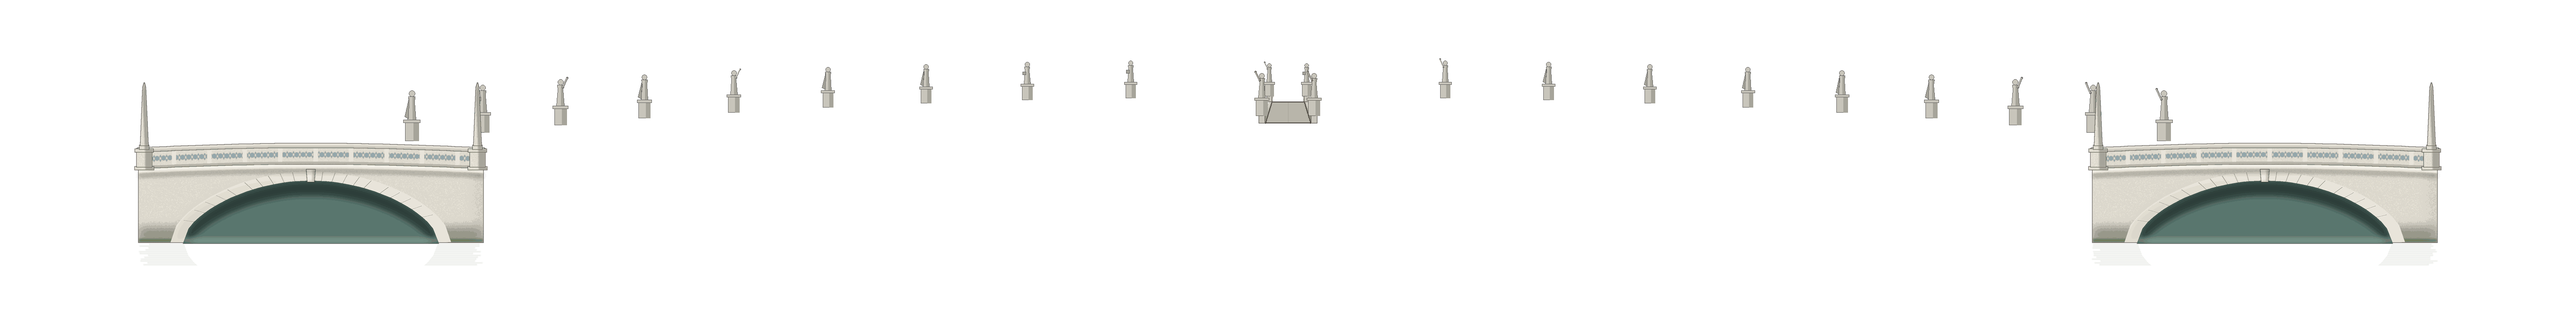
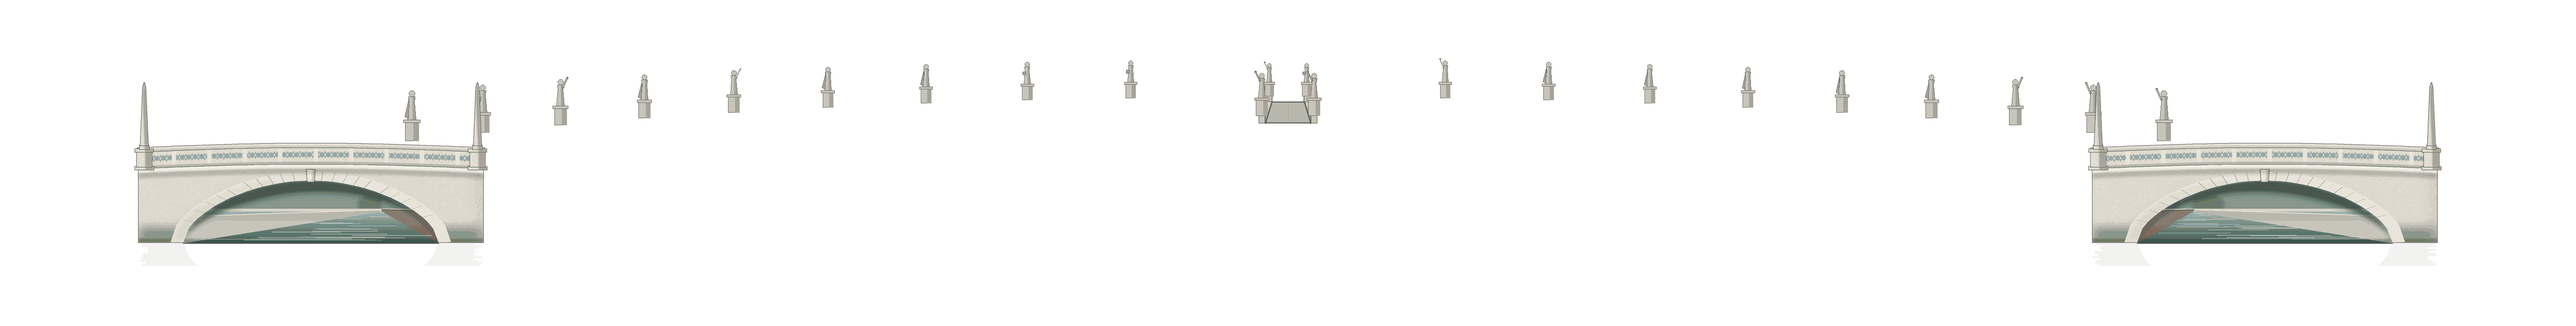
Padova: sotto i ponti si vede il canale che continua e piega dietro l'isola, in prospettiva (#378)
Claude-Session: https://claude.ai/code/session_01Bf1d2rFJnp9n4pFf7DSqn4

Changed region(s): [[0.8101, 0.54, 0.9348, 0.75], [0.0623, 0.57, 0.187, 0.75]]

diff --git a/tools/arene/padova.py b/tools/arene/padova.py
@@ -2643,10 +2643,60 @@ def _profile_bridge(t, x_in, x_out, rng):
     span, mid = (b - a) * 0.74, (a + b) / 2
     arch = [(mid - span / 2 + span * i / n, water - (water - deck - 18 + hump) * math.sin(math.pi * i / n) ** 0.55) for i in range(n + 1)]
     opening = q.poly(q.mask(), [(mid - span / 2, water + 1)] + arch + [(mid + span / 2, water + 1)])
-    # sotto l'arco: l'acqua del canale che continua dietro, la volta in ombra
-    q.fill(opening, (88, 118, 110))
-    q.fill(q.intersect(q.soften(q.poly(q.mask(), arch + [(x, y + 16) for x, y in reversed(arch)]), 3), opening), (40, 56, 52), 0.9)
-    q.fill(q.intersect(q.soften(q.poly(q.mask(), [(mid - span / 2, water - 5), (mid + span / 2, water - 5), (mid + span / 2, water + 1), (mid - span / 2, water + 1)]), 2), opening), (140, 168, 156), 0.6)
+    # sotto l'arco si vede il canale che continua (#378, chiesto da Riccardo): l'acqua va via da noi e, siccome il canale
+    # è un anello ovale, piega verso il centro dietro l'isola. Le due sponde convergono verso un punto di fuga spostato
+    # dalla parte dell'isola; lontano l'acqua è più chiara e riflette il cielo, in fondo si vedono il prato e gli alberi
+    # della sponda che gira. In alto la volta del ponte in ombra.
+    sg = 1 if mid < 960 else -1  # da che parte sta l'isola (il centro dell'ovale)
+    H = water - arch[n // 2][1]
+    hz = water - H * 0.5  # l'orizzonte del canale dentro l'arco
+    vx = mid + sg * span * 0.28  # il punto di fuga: il canale piega verso l'isola
+    left_x, right_x = mid - span / 2, mid + span / 2
+    inner_x, outer_x = (right_x, left_x) if sg > 0 else (left_x, right_x)
+
+    def vgrad(y_top, y_bot):  # una maschera che va da pieno in alto (y_top) a vuoto in basso (y_bot)
+        g = Image.new("L", q.size, 0)
+        dg = ImageDraw.Draw(g)
+        ya, yb = q._p(0, y_top)[1], q._p(0, y_bot)[1]
+        for py in range(int(ya), int(yb) + 1):
+            u = (py - ya) / max(1, yb - ya)
+            dg.line([(0, py), (q.size[0], py)], fill=int(255 * (1 - u) ** 1.3))
+        return g
+
+    q.fill(opening, (128, 150, 136))  # lontano, sopra l'orizzonte: la sponda che gira, verde di prato e alberi
+    trees = q.mask()
+    for k in range(7):
+        tx = vx + sg * rng.uniform(-span * 0.1, span * 0.3)
+        q.ellipse(trees, tx - 9, hz - 15 - rng.uniform(0, 6), tx + 9, hz + 2)
+    q.fill(q.intersect(q.soften(trees, 1.5), opening), (96, 120, 92), 0.9)
+    farbank = q.poly(q.mask(), [(left_x, hz), (right_x, hz), (right_x, hz - 3), (left_x, hz - 3)])
+    q.fill(q.intersect(farbank, opening), (214, 208, 194))  # il cordolo bianco della sponda in fondo
+    wat = q.poly(q.mask(), [(left_x, water + 1), (right_x, water + 1), (right_x, hz), (left_x, hz)])
+    q.fill(q.intersect(wat, opening), (72, 100, 94))
+    q.fill(q.intersect(q.intersect(vgrad(hz, water), wat), opening), (170, 194, 188), 0.9)  # lontano più chiaro
+    # le due sponde che convergono verso il punto di fuga: quella di fuori (pietra chiara, in luce) e il muro
+    # dell'isola (mattoni in ombra), alte vicino e basse lontano
+    for bx, col, hgt in ((outer_x, (206, 200, 186), H * 0.42), (inner_x, (128, 100, 86), H * 0.5)):
+        wall = q.poly(q.mask(), [(bx, water + 1), (bx, water - hgt), (vx, hz - 2), (vx, hz)])
+        q.fill(q.intersect(wall, opening), col)
+        q.fill(q.intersect(q.intersect(vgrad(hz - hgt * 0.2, water), wall), opening), (150, 168, 160), 0.5)  # la foschia lontano
+        edge = q.mask()
+        q.stroke(edge, [(bx, water - hgt), (vx, hz - 2)], 1.0)
+        q.fill(q.intersect(edge, opening), (236, 232, 222) if bx == outer_x else (96, 76, 66))
+        refl = q.poly(q.mask(), [(bx, water + 1), (bx + (vx - bx) * 0.05, water + 1), (vx, hz), (vx, hz + 1)])
+    # i riflessi del cielo sull'acqua, a pennellate orizzontali più corte e fitte lontano
+    rip = q.mask()
+    for k in range(26):
+        u = rng.random() ** 1.6  # 0 vicino, 1 lontano
+        y = water - 2 - u * (water - hz - 3)
+        half = (1 - u) * span * 0.18 + 2
+        x = rng.uniform(left_x + span * 0.15, right_x - span * 0.15) * (1 - u) + vx * u
+        q.stroke(rip, [(x - half, y), (x + half, y)], 0.7 - 0.3 * u)
+    q.fill(q.intersect(q.intersect(rip, wat), opening), (200, 220, 214), 0.7)
+    # la volta del ponte vista da sotto: una fascia in ombra lungo l'intradosso, più larga dalla parte dell'isola
+    vault = q.poly(q.mask(), arch + [(x + sg * 10 * math.sin(math.pi * i / n), y + 12 * math.sin(math.pi * i / n) ** 0.5) for i, (x, y) in reversed(list(enumerate(arch)))])
+    q.fill(q.intersect(q.soften(vault, 2.5), opening), (54, 66, 62), 0.85)
+    q.fill(q.intersect(q.soften(q.poly(q.mask(), [(left_x, water - 3), (right_x, water - 3), (right_x, water + 1), (left_x, water + 1)]), 1.5), opening), (40, 56, 52), 0.5)  # l'ombra del ponte sull'acqua vicina
     # la faccia del ponte
     face = q.minus(q.poly(q.mask(), top + [(b, water), (a, water)]), opening)
     q.fill(face, S)
